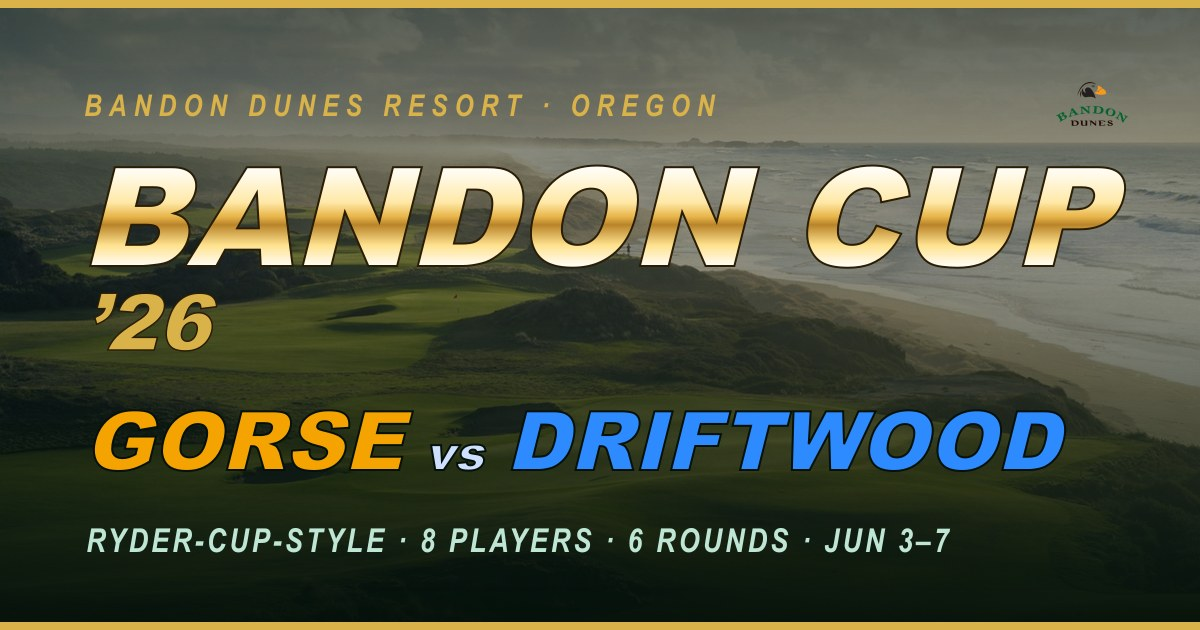
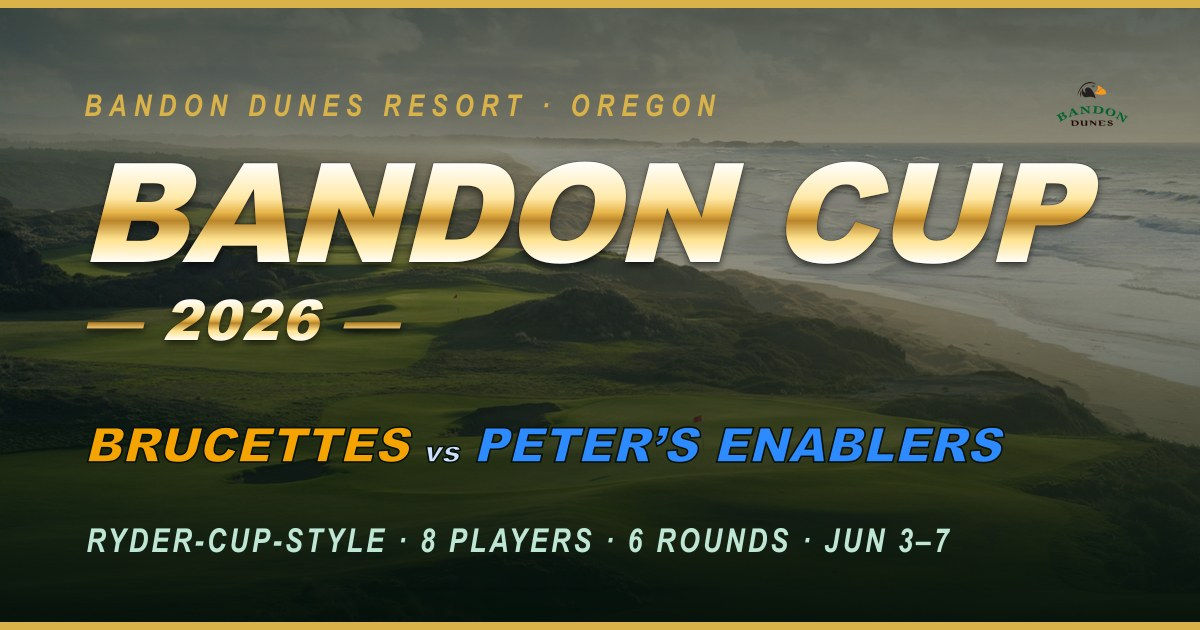
feat(cup): rework clinch logic for a first-Cup (no defending holder)
The '26 Cup has no prior holder, so a team wins only by reaching 4 points
outright; the lone 3.5-3.5 tie is settled by a sudden-death putting contest,
surfaced as a new PUTT-OFF label (replacing RETAINS/holder logic). Updates the
Rules/Board/Home copy, broadcast strings, and regenerates the OG card to match.

Changed region(s): [[0.0617, 0.2413, 0.9558, 0.4524], [0.0617, 0.6333, 0.8942, 0.754], [0.0617, 0.4524, 0.3392, 0.573]]

diff --git a/src/scoring/cup.ts b/src/scoring/cup.ts
@@ -18,23 +18,25 @@ export function tallyCup(rounds: RoundCup[]): { gorse: number; driftwood: number
   return { gorse, driftwood, available };
 }
 
-export type ClinchLabel = "CLINCHED" | "RETAINS" | "ALIVE" | "MUST WIN FINALE" | "ELIMINATED";
+export type ClinchLabel = "CLINCHED" | "PUTT-OFF" | "ALIVE" | "MUST WIN FINALE" | "ELIMINATED";
 
-/** TOTAL_POINTS = 7, WIN = 4, RETAIN = 3.5. */
+/**
+ * TOTAL_POINTS = 7, WIN = 4. This is the first Cup, so there is no defending
+ * holder — a team wins outright only by reaching 4. The lone tie (3.5–3.5) is
+ * broken by a sudden-death putting contest, surfaced as the PUTT-OFF label.
+ */
 export function clinchState(gorse: number, driftwood: number, available: number): { gorse: ClinchLabel; driftwood: ClinchLabel } {
-  const WIN = 4, RETAIN = 3.5;
-  const label = (me: number, them: number, isHolder: boolean): ClinchLabel => {
+  const WIN = 4, TIE = 3.5;
+  const label = (me: number, them: number): ClinchLabel => {
     const themMax = them + available;
     const myMax = me + available;
-    if (me >= WIN) return "CLINCHED";
-    if (me > themMax) return "CLINCHED";            // opponent can't reach me
-    if (isHolder && me >= RETAIN && me >= themMax) return "RETAINS"; // best opp can do is tie
-    if (myMax < RETAIN && !isHolder) return "ELIMINATED";
-    if (myMax < WIN && isHolder && themMax > RETAIN) return "ELIMINATED";
+    if (me >= WIN || me > themMax) return "CLINCHED";        // outright win secured
+    if (them >= WIN || them > myMax) return "ELIMINATED";    // opponent secured the win
+    if (myMax < TIE) return "ELIMINATED";                    // can't even force a tie
+    if (me >= TIE && themMax <= me) return "PUTT-OFF";       // worst case is a 3.5–3.5 putt-off
     // still mathematically alive; if a single finale (available===2) decides it, surface MUST WIN
     if (available === 2 && me < them) return "MUST WIN FINALE";
     return "ALIVE";
   };
-  // Gorse is the defending holder in '26 (defaults; flip if needed via seed later).
-  return { gorse: label(gorse, driftwood, true), driftwood: label(driftwood, gorse, false) };
+  return { gorse: label(gorse, driftwood), driftwood: label(driftwood, gorse) };
 }

diff --git a/index.html b/index.html
@@ -9,24 +9,24 @@
     <meta name="apple-mobile-web-app-status-bar-style" content="black-translucent" />
     <meta name="apple-mobile-web-app-title" content="Bandon Cup" />
     <title>Bandon Cup '26</title>
-    <meta name="description" content="Ryder-Cup-style golf at Bandon Dunes. Gorse vs Driftwood — 8 players, 6 rounds, Jun 3–7. Live net-Stableford scoreboard + The Bandon Book." />
+    <meta name="description" content="Ryder-Cup-style golf at Bandon Dunes. Brucettes vs Peter's Enablers — 8 players, 6 rounds, Jun 3–7. Live net-Stableford scoreboard + The Bandon Book." />
 
     <!-- Open Graph / iMessage / Facebook -->
     <meta property="og:type" content="website" />
     <meta property="og:site_name" content="Bandon Cup '26" />
-    <meta property="og:title" content="Bandon Cup '26 — Gorse vs Driftwood" />
+    <meta property="og:title" content="Bandon Cup '26 — Brucettes vs Peter's Enablers" />
     <meta property="og:description" content="Ryder-Cup-style golf at Bandon Dunes. 8 players, 6 rounds, Jun 3–7. Live net-Stableford scoreboard + The Bandon Book." />
     <meta property="og:url" content="https://bandon-cup.etaheri.workers.dev/" />
-    <meta property="og:image" content="https://bandon-cup.etaheri.workers.dev/og.jpg" />
+    <meta property="og:image" content="https://bandon-cup.etaheri.workers.dev/og.jpg?v=4" />
     <meta property="og:image:width" content="1200" />
     <meta property="og:image:height" content="630" />
-    <meta property="og:image:alt" content="Bandon Cup '26 — Gorse vs Driftwood at Bandon Dunes" />
+    <meta property="og:image:alt" content="Bandon Cup '26 — Brucettes vs Peter's Enablers at Bandon Dunes" />
 
     <!-- Twitter / X -->
     <meta name="twitter:card" content="summary_large_image" />
-    <meta name="twitter:title" content="Bandon Cup '26 — Gorse vs Driftwood" />
+    <meta name="twitter:title" content="Bandon Cup '26 — Brucettes vs Peter's Enablers" />
     <meta name="twitter:description" content="Ryder-Cup-style golf at Bandon Dunes. 8 players, 6 rounds, Jun 3–7." />
-    <meta name="twitter:image" content="https://bandon-cup.etaheri.workers.dev/og.jpg" />
+    <meta name="twitter:image" content="https://bandon-cup.etaheri.workers.dev/og.jpg?v=4" />
   </head>
   <body>
     <div id="root"></div>

diff --git a/test/scoring/cup.test.ts b/test/scoring/cup.test.ts
@@ -33,14 +33,16 @@ describe("clinchState", () => {
   it("CLINCHED when lead exceeds remaining", () => {
     expect(clinchState(4, 1, 2).gorse).toBe("CLINCHED");
   });
-  it("retains at 3.5 of 7 (cannot be caught past tie)", () => {
-    // 3.5 vs 2.5, 1 available: leader (holder) stays >= tie -> RETAINS
-    expect(clinchState(3.5, 2.5, 1).gorse).toBe("RETAINS");
+  it("PUTT-OFF at 3.5 when the opponent can at best force a 3.5–3.5 tie", () => {
+    // 3.5 vs 2.5, 1 available: opponent tops out at 3.5 -> worst case is a putt-off
+    expect(clinchState(3.5, 2.5, 1).gorse).toBe("PUTT-OFF");
+  });
+  it("PUTT-OFF for both when the cup finishes 3.5–3.5", () => {
+    expect(clinchState(3.5, 3.5, 0)).toEqual({ gorse: "PUTT-OFF", driftwood: "PUTT-OFF" });
   });
   it("surfaces MUST WIN FINALE when a single finale (available=2) decides it", () => {
-    // label(2,3,false): trailing non-holder, available===2, me<them -> MUST WIN FINALE
+    // label(2,3): trailing team, available===2, me<them -> MUST WIN FINALE
     expect(clinchState(3, 2, 2).driftwood).toBe("MUST WIN FINALE");
-    // label(2,3,true): trailing holder, available===2, me<them -> MUST WIN FINALE
     expect(clinchState(2, 3, 2).gorse).toBe("MUST WIN FINALE");
   });
 });

diff --git a/src/screens/Rules.tsx b/src/screens/Rules.tsx
@@ -1,4 +1,5 @@
 import { BackButton } from "../ui/BackButton";
+import { TEAMS } from "../data/broadcast";
 
 function Section({ title, children }: { title: string; children: any }) {
   return (
@@ -22,8 +23,8 @@ export function Rules() {
 
       <Section title="The Format">
         <p style={{ margin: 0 }}>
-          Eight players, two teams — <b style={{ color: "var(--gorse)" }}>Gorse</b> vs{" "}
-          <b style={{ color: "var(--driftwood)" }}>Driftwood</b> — over six counting rounds (Thu–Sat) at Bandon Dunes.
+          Eight players, two teams — <b style={{ color: "var(--gorse)" }}>{TEAMS.GORSE.name}</b> vs{" "}
+          <b style={{ color: "var(--driftwood)" }}>{TEAMS.DRIFTWOOD.name}</b> — over six counting rounds (Thu–Sat) at Bandon Dunes.
           It's a Ryder-Cup-style team match: every round is worth cup points, and the team that wins the cup wins the trip.
         </p>
       </Section>
@@ -59,8 +60,8 @@ export function Rules() {
         <ul style={{ margin: 0, paddingLeft: 18 }}>
           <li>Each round, the team with the better <b>combined result</b> wins <b>1 cup point</b>. Ties split <b>0.5 / 0.5</b>.</li>
           <li>The <b>Saturday afternoon finale (Round 6) is worth double — 2 points</b>.</li>
-          <li><b>7 points</b> are available in total. <b>First to 4 wins the cup; 3.5 retains it.</b></li>
-          <li>The board tracks clinch state — <b>CLINCHED / RETAINS / ALIVE / MUST WIN FINALE / ELIMINATED</b> — like a real broadcast.</li>
+          <li><b>7 points</b> are available in total. <b>First to 4 wins the cup.</b> If it ends <b>3.5–3.5</b>, the tie is broken by a <b>sudden-death putting contest.</b></li>
+          <li>The board tracks clinch state — <b>CLINCHED / PUTT-OFF / ALIVE / MUST WIN FINALE / ELIMINATED</b> — like a real broadcast.</li>
         </ul>
       </Section>
 

diff --git a/src/screens/Board.tsx b/src/screens/Board.tsx
@@ -4,6 +4,7 @@ import { useLeaderboard } from "../state/useLeaderboard";
 import type { PollStatus } from "../state/pollStatus";
 import { useFlashOnChange } from "../ui/useFlashOnChange";
 import { liveRound } from "../schedule";
+import { TEAMS, type TeamId } from "../data/broadcast";
 import { BackButton } from "../ui/BackButton";
 import { PlayerDetail } from "./PlayerDetail";
 
@@ -51,7 +52,7 @@ export function Board({ tv }: { tv: boolean }) {
         boxShadow: live ? "var(--bevel)" : "none", opacity: live ? 1 : .7 }}>
         {live
           ? `${liveFinal ? "■ FINAL" : "● LIVE"} · ROUND ${countIndex} OF ${roundsMeta.length} · ${(liveCourse?.name ?? "").toUpperCase()} · PAR ${liveCourse?.par ?? ""} · ${live.day} ${live.teeTime} PT`
-          : `${lb.cup.available > 0 ? "UP NEXT — see tee sheet" : "ALL DECIDED"} · first to 4 wins, 3.5 retains`}
+          : `${lb.cup.available > 0 ? "UP NEXT — see tee sheet" : "ALL DECIDED"} · first to 4 wins · 3.5–3.5 = sudden-death putt-off`}
       </div>
 
       <RoundStrip roundCups={lb.roundCups ?? []} roundsMeta={roundsMeta} scale={scale} />
@@ -76,7 +77,7 @@ function TeamBar({ team, cup, agg, clinch, lead, flip, scale, right }: any) {
     <div className={flip ? "bc-pulse" : undefined} style={{ padding: 16, textAlign: right ? "right" : "left",
       background: lead ? color : `linear-gradient(${right ? "270deg" : "90deg"}, ${color}33, #0a1714)`,
       color: lead ? "#10231c" : "#fff" }}>
-      <div className="head" style={{ fontSize: 20 * scale, color: lead ? "#10231c" : color }}>{team}</div>
+      <div className="head" style={{ fontSize: 20 * scale, color: lead ? "#10231c" : color }}>{TEAMS[team as TeamId].name}</div>
       <div className={"head" + (cupFlash ? " bc-flash" : "")} style={{ fontSize: 56 * scale, lineHeight: 1, display: "inline-block" }}>{cup}</div>
       <div style={{ opacity: .9, fontSize: 13 * scale }}>{agg >= 0 ? "+" : ""}{agg} to quota</div>
       <div className={"head" + (clinchFlash && clinch === "CLINCHED" ? " bc-flash" : "")} style={{ marginTop: 4, fontSize: 11 * scale, display: "inline-block" }}>{clinch}</div>

diff --git a/test/scoring/edge-cases.test.ts b/test/scoring/edge-cases.test.ts
@@ -31,10 +31,11 @@ describe("holePoints — scale and floor", () => {
 });
 
 describe("clinchState — elimination branches", () => {
-  it("non-holder is ELIMINATED when its max can't reach RETAIN", () => {
+  it("ELIMINATED when the opponent has already clinched (5 vs 0, 2 left)", () => {
     expect(clinchState(5, 0, 2).driftwood).toBe("ELIMINATED");
   });
-  it("holder is ELIMINATED when it can't reach WIN and opponent passes RETAIN", () => {
+  it("ELIMINATED when its own max can't even force a 3.5 tie", () => {
+    // gorse maxes at 1+2=3 < 3.5, so it can neither win nor reach a putt-off
     expect(clinchState(1, 5, 2).gorse).toBe("ELIMINATED");
   });
 });

diff --git a/src/data/broadcast.ts b/src/data/broadcast.ts
@@ -25,8 +25,8 @@ export const PLAYERS: Record<string, { name: string; first: string; team: TeamId
 };
 
 export const TEAMS: Record<TeamId, { name: string; color: string; roster: string[] }> = {
-  GORSE:     { name: "Gorse",     color: "#F4A300", roster: ["desabio", "laflair", "stenzel", "meissner"] },
-  DRIFTWOOD: { name: "Driftwood", color: "#2E8BFF", roster: ["taheri", "grattan", "sloan", "johnson"] },
+  GORSE:     { name: "Brucettes", color: "#F4A300", roster: ["desabio", "laflair", "stenzel", "meissner"] },
+  DRIFTWOOD: { name: "Peter's Enablers", color: "#2E8BFF", roster: ["taheri", "grattan", "sloan", "johnson"] },
 };
 
 export interface TeeGroup {

diff --git a/src/App.tsx b/src/App.tsx
@@ -45,4 +45,4 @@ export function App() {
   );
 }
 
-export const go = (p: string) => { window.history.pushState({}, "", p); window.dispatchEvent(new PopStateEvent("popstate")); };
+export const go = (p: string) => { window.history.pushState({}, "", p); window.scrollTo(0, 0); window.dispatchEvent(new PopStateEvent("popstate")); };

diff --git a/src/screens/Home.tsx b/src/screens/Home.tsx
@@ -111,7 +111,7 @@ export function Home() {
           <p className="bc-kicker">Bandon Dunes Resort · Oregon</p>
           <h1 className="bc-title">Bandon Cup<small>— 2026 —</small></h1>
           <div className="bc-sub">
-            <span className="g">Gorse</span><span className="x">vs</span><span className="d">Driftwood</span>
+            <span className="g">{TEAMS.GORSE.name}</span><span className="x">vs</span><span className="d">{TEAMS.DRIFTWOOD.name}</span>
             <span className="x">·</span><span>Jun 3–7</span>
           </div>
           <span className="bc-status">